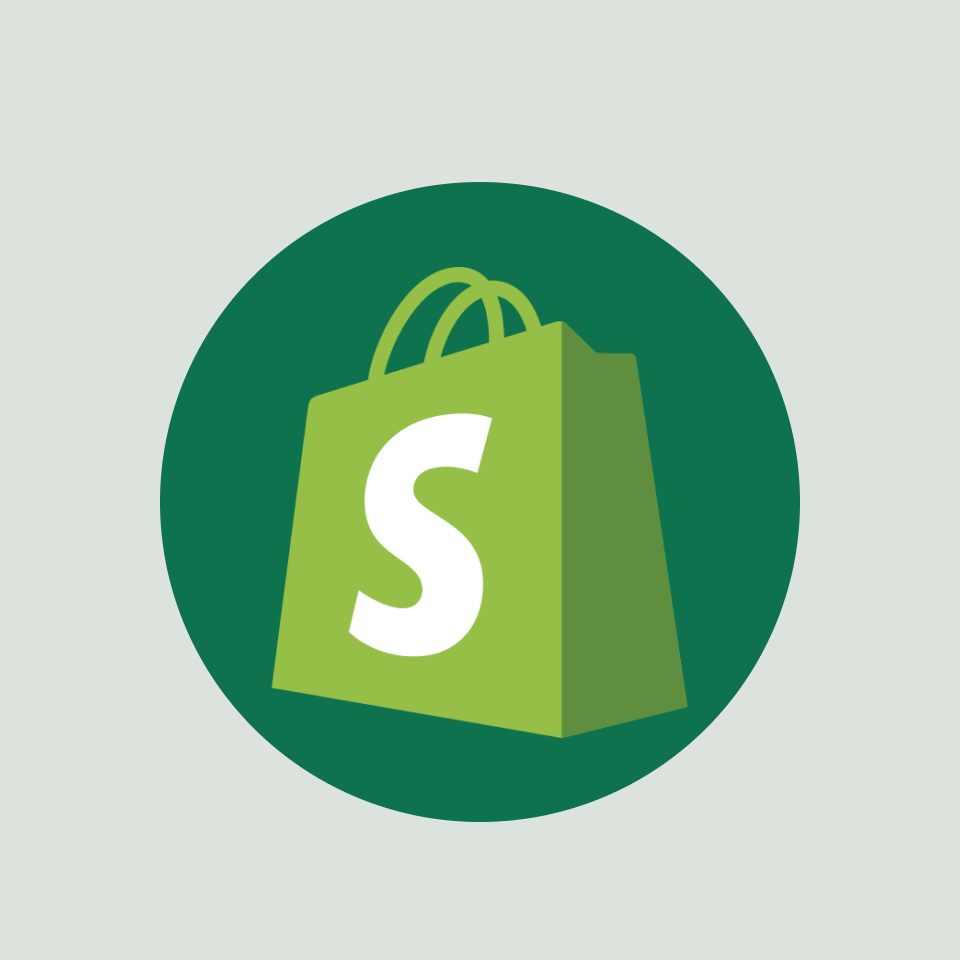
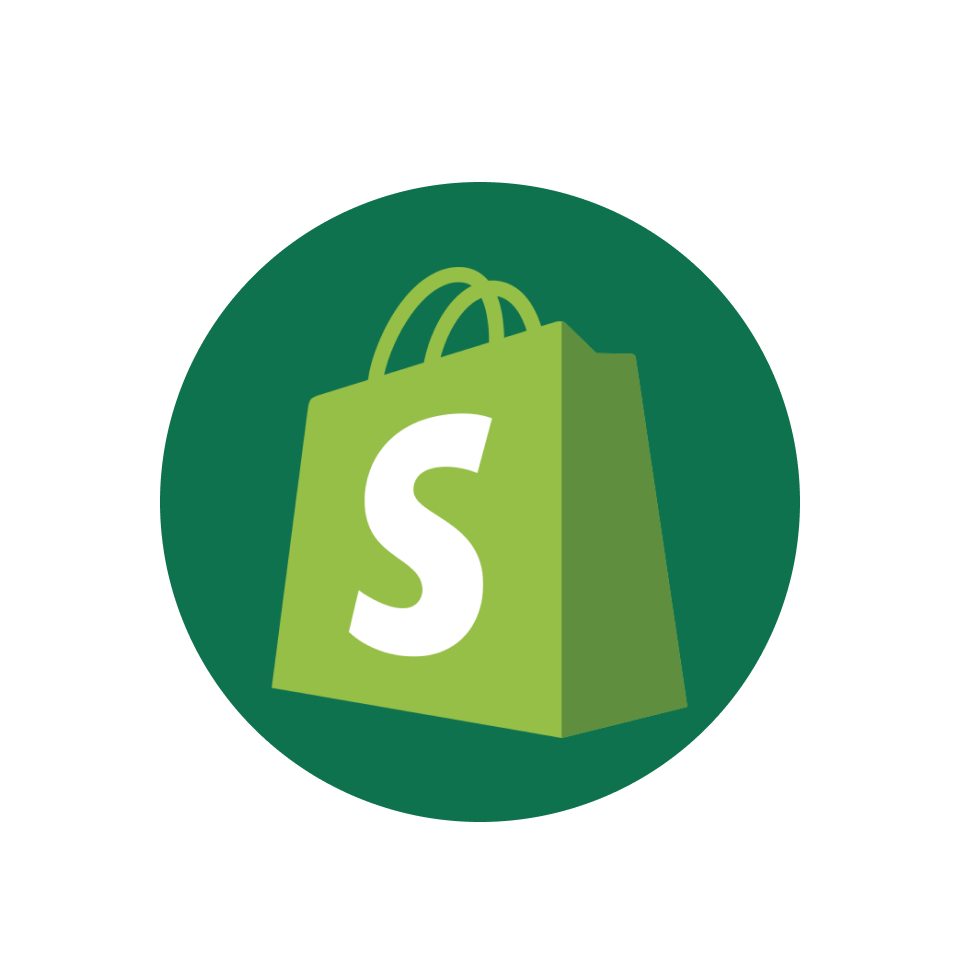
update splash screen assets and background color to white

diff --git a/web/index.html b/web/index.html
@@ -29,6 +29,11 @@
 
   <title>mini_shop</title>
   <link rel="manifest" href="manifest.json">
+  
+  
+  <meta content="width=device-width, initial-scale=1.0, maximum-scale=1.0, user-scalable=no" name="viewport">
+  
+  
   <style id="splash-screen-style">
     html {
       height: 100%
@@ -37,7 +42,7 @@
     body {
       margin: 0;
       min-height: 100%;
-      background-color: #0F724E;
+      background-color: #FFFFFF;
           background-size: 100% 100%;
     }
 
@@ -94,7 +99,6 @@
       document.body.style.background = "transparent";
     }
   </script>
-  <meta content="width=device-width, initial-scale=1.0, maximum-scale=1.0, user-scalable=no" name="viewport">
 </head>
 <body>
   <picture id="splash">
@@ -102,6 +106,8 @@
       <source srcset="splash/img/dark-1x.png 1x, splash/img/dark-2x.png 2x, splash/img/dark-3x.png 3x, splash/img/dark-4x.png 4x" media="(prefers-color-scheme: dark)">
       <img class="center" aria-hidden="true" src="splash/img/light-1x.png" alt="">
   </picture>
+  
+  
   <!--
     You can customize the "flutter_bootstrap.js" script.
     This is useful to provide a custom configuration to the Flutter loader
